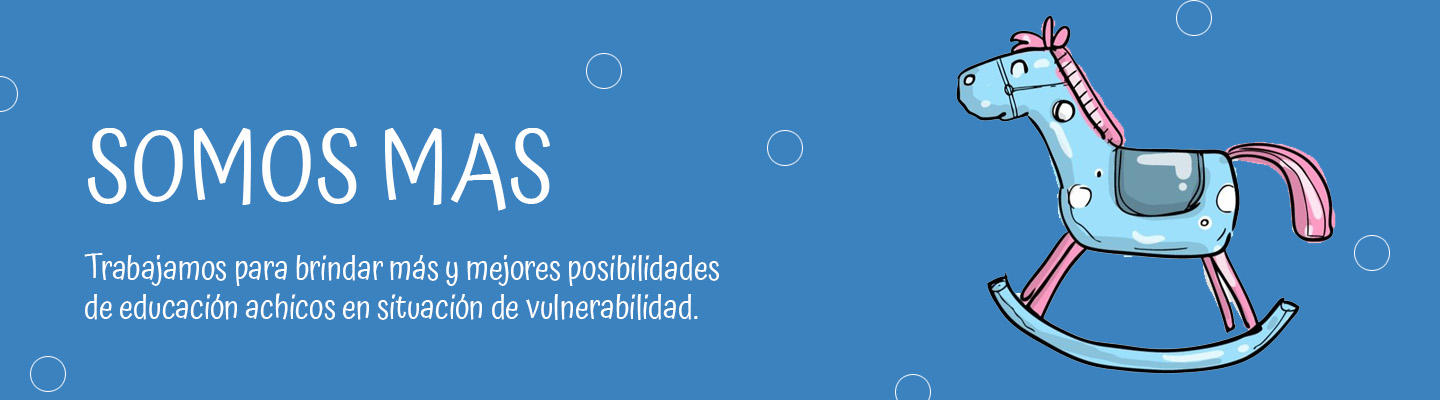
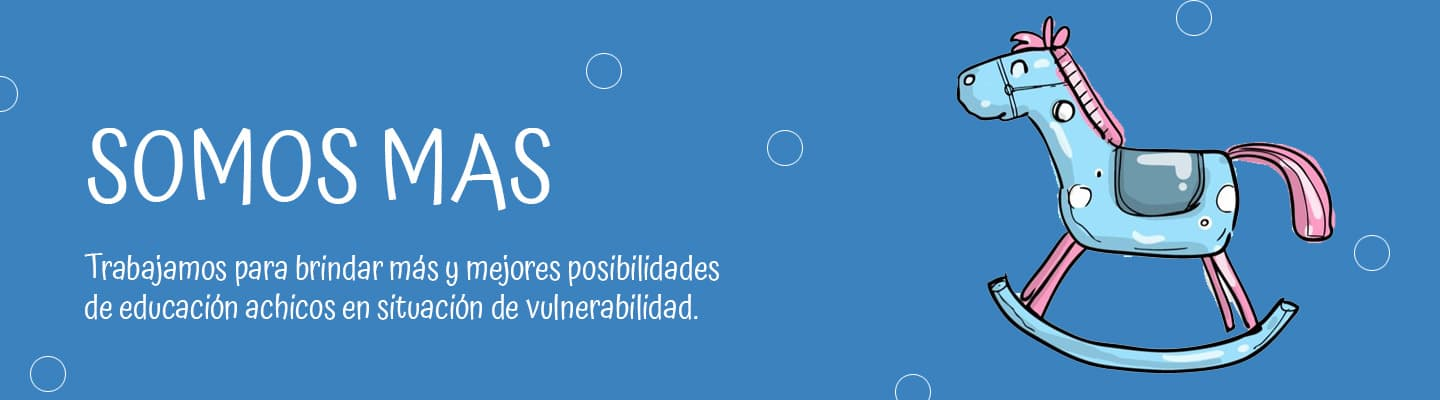
add optimized images and change page title (#74)

diff --git a/public/index.html b/public/index.html
@@ -24,7 +24,7 @@
       work correctly both with client-side routing and a non-root public URL.
       Learn how to configure a non-root public URL by running `npm run build`.
     -->
-    <title>React Redux App</title>
+    <title>Somos Mas</title>
   </head>
   <body>
     <noscript>You need to enable JavaScript to run this app.</noscript>
